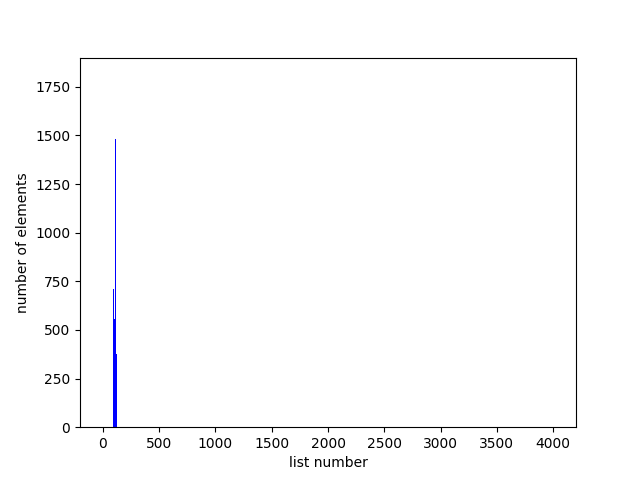
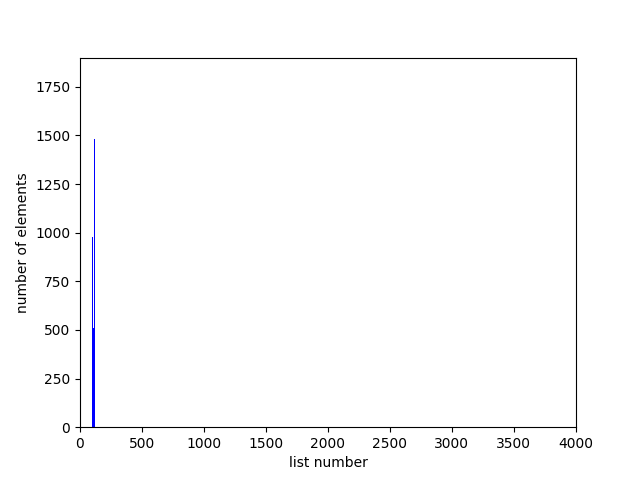
redone files

Changed region(s): [[0.125, 0.6562, 0.9375, 0.9375]]

diff --git a/hash/hash_table.cpp b/hash/hash_table.cpp
@@ -8,7 +8,7 @@
 List* LST_Create() {
     List* list = (List*)malloc(sizeof(List));
     if (list == NULL) {
-        return NULL; // Memory allocation failed
+        return NULL;
     }
 
     list->fixedElement = NULL;
@@ -37,7 +37,7 @@ void LST_Destroy(List* list) {
     Node* current = list->fixedElement;
     while (current != NULL) {
         Node* next = current->next;
-        free(current->value); // Assuming data is dynamically allocated
+        free(current->value);
         free(current);
         current = next;
     }
@@ -65,27 +65,22 @@ bool is_element_present(char* key, struct HashTable* ht) {
     Node* current = list->fixedElement;
     while (current != NULL) {
         if (strcmp(current->value, key) == 0) {
-            // Элемент уже присутствует в списке
-            return true;
+            return true;                            // Элемент уже присутствует в списке
         }
         current = current->next;
     }
-    // Элемент не найден
-    return false;
+    return false;                                   // Элемент не найден
 }
 
 void LST_add(struct List* list, value_type value) {
     assert(list);
-    // Створюємо новий вузол
     Node* new_node = (Node*)malloc(sizeof(Node));
     new_node->value = value;
-    new_node->next = NULL; // Новий вузол стає останнім, тому наступний буде NULL
+    new_node->next = NULL;
 
     if (list->fixedElement == NULL) {
-        // Якщо список порожній, новий елемент стає першим
         list->fixedElement = new_node;
     } else {
-        // Якщо список не порожній, додаємо новий елемент в кінець
         Node* current = list->fixedElement;
         while (current->next != NULL) {
             current = current->next;
@@ -96,14 +91,11 @@ void LST_add(struct List* list, value_type value) {
     list->length++;
 }
 
-// Добавление элемента в хэш-таблицу
 void add(char* key, struct HashTable* ht) {
-    // Проверка наличия элемента
-    if (is_element_present(key, ht)) {
+    if (is_element_present(key, ht)) {                      // Проверка наличия элемента
         return;
     }
 
-    // Вычисление хэша и добавление элемента в список
     key_type hash = ht->hash_function(key) % ht->length;
     LST_add(&ht->array[hash], key);
 }

diff --git a/hash/hash_func.cpp b/hash/hash_func.cpp
@@ -16,10 +16,26 @@ key_type hash_func2(const char* key) {
 key_type hash_func3(const char* key) {
     size_t len = strlen(key);
     size_t sum_ASCII_code = 0;
+
     for (size_t i = 0; i < len; i++) {
         sum_ASCII_code += (int)key[i];
     }
+
     return sum_ASCII_code;
+}
+
+key_type hash_func4_2(const char* key) {
+    size_t len = strlen(key);
+    if (len == 0) {
+        return 1;
+    }
+
+    size_t sum_ASCII_code = 0;
+    for (size_t i = 0; i < len; i++) {
+        sum_ASCII_code += (int)key[i];
+    }
+
+    return (int)(sum_ASCII_code / len);
 }
 
 key_type hash_func4(const char* key) {
@@ -92,11 +108,11 @@ static const uint32_t crc_lookup_table[256] =
 key_type hash_function7(const char* data)
 {
     int size = strlen(data);
-   uint32_t crc = 0xffffffff;
-   unsigned char* str = (unsigned char*)data;
+    uint32_t crc = 0xffffffff;
 
-	while (size-- !=0)
-    {
+    unsigned char* str = (unsigned char*)data;
+
+	while (size-- !=0) {
         crc = crc_lookup_table[((uint8_t) crc ^ *(str++))] ^ (crc >> 8);
     }
     return ~crc;

diff --git a/main.cpp b/main.cpp
@@ -66,13 +66,13 @@ int main()
                                     0};
     MainFuncReadFile(&source);
 
-    struct HashTable* ht = HT_Create(reinterpret_cast<key_type (*)(value_type)>(hash_func3));
+    struct HashTable* ht = HT_Create(reinterpret_cast<key_type (*)(value_type)>(hash_func4_2));
 
     for (size_t i = 0; i < source.words; i++) {
         add(source.textArray[i], ht);
     }
 
-    writeToFileResult("./result/output3(1).txt", ht);
+    writeToFileResult("./result/output4(2).txt", ht);
     dispersion(ht);
 
     int sum = 0;

diff --git a/hash/hash_table.h b/hash/hash_table.h
@@ -4,8 +4,9 @@
 #include <stdlib.h>
 #include "../list/list.h"
 
-const size_t HT_TABLE_SIZE  = 501;
-const int    START_CAPACITY = 100;
+const size_t HT_TABLE_SIZE        = 4001;
+const size_t HT_TABLE_SIZE_SMALL  = 503;
+const int    START_CAPACITY       = 100;
 typedef size_t key_type;
 typedef char* value_type;
 

diff --git a/hash/hash_func.h b/hash/hash_func.h
@@ -7,6 +7,7 @@
 key_type hash_func1(const char* key);
 key_type hash_func2(const char* key);
 key_type hash_func3(const char* key);
+key_type hash_func4_2(const char* key);
 key_type hash_func4(const char* key);
 key_type hash_function5(const char* key) ;
 key_type hash_function6(const char* key);

diff --git a/README.md b/README.md
@@ -7,6 +7,13 @@
     1. [Цель](#цель)
     2. [Реализованные хэш-функции](#реализованные-хэш-функции)
     3. [Эксперимент](#эксперимент)
+       1. [Хэш-функция, которая всегда возвращает 1](#1-хэш-функция-которая-всегда-возвращает-1)
+       2. [Хэш-функция, которая возвращает ASCII-код первого символа слова](#2-хэш-функция-которая-возвращает-ascii-код-первого-символа-слова)
+       3. [Хэш-функция, которая возвращает сумму ASCII-кодов элементов слова](#3-хэш-функция-которая-возвращает-сумму-ascii-кодов-элементов-слова)
+       4. [Хэш-функция, которая возвращает длину слова](#4-хэш-функция-которая-возвращает-длину-слова)
+       5. [Хеш-функция Ror](#5-хеш-функция-ror)
+       6. [Хеш-функция Rol](#6-хеш-функция-rol)
+       7. [Хэш-функция Crc32](#7-хэш-функция-crc32)
 2. [Часть вторая](#часть-вторая)
 3. [Примечание](#примечание)
 
@@ -29,9 +36,9 @@
 Программа сравнивает семь различных хэш-функций:
 
 1. Возвращает всегда 1;
-2. Возвращает сумму ASCII-кодов первых символов строки;
+2. Возвращает сумму ASCII-кодов первого символа строки;
 3. Возвращает сумму ASCII-кодов всех символов строки;
-4. Возвращает размер строки;
+4. Возвращает размер слова;
 5. Функция хеширования Rol;
 6. Функция хеширования Lol;
 7. Хэш-функция Crc32.
@@ -41,35 +48,172 @@
 
 Для каждой хэш-функции создается хеш-таблица методом цепочек с константным размером 4001. Затем каждое слово из произведения добавляется в хэш-таблицу. В случае коллизии элементы перечисляются в цепочке. Размер каждой цепочки записывается.
 
-1. Хэш-функция, которая всегда возвращает 1
+#### 1. Хэш-функция, которая всегда возвращает 1
+
+```
+key_type hash_func1(const char* key) {
+    return 1;
+}
+```
 
 <img src = "./pictures/Figure_1.png" width="500" height="250">
 
-2. Хэш-функция, которая возвращает ASCII-код первого символа слова
+Эта хэш-функция неэффективна, так как все элементы складываются в один список.
+
+#### 2. Хэш-функция, которая возвращает ASCII-код первого символа слова
+
+```
+key_type hash_func2(const char* key) {
+    return key[0];
+}
+```
 
 <img src = "./pictures/Figure_2.png" width="500" height="250">
 
-3. Хэш-функция, которая возвращает сумму ASCII-кодов элементов слова
+В приближенном формате:
+
+<img src = "./pictures/Figure_2small.png" width="500" height="250">
+
+Эта функция не подходит для эффективного использования хеш-таблицы, так как коллизии происходят слишком часто. Значения хеш-функции не распределены равномерно.
+
+#### 3. Хэш-функция, которая возвращает сумму ASCII-кодов элементов слова
+
+```
+key_type hash_func3(const char* key) {
+    size_t len = strlen(key);
+    size_t sum_ASCII_code = 0;
+
+    for (size_t i = 0; i < len; i++) {
+        sum_ASCII_code += (int)key[i];
+    }
+
+    return sum_ASCII_code;
+}
+```
 
 <img src = "./pictures/Figure_3.png" width="500" height="250">
 
+Хэш-функция, основанная на сумме ASCII-кодов элементов слова, проявляет распределение с множеством пиков. Это происходит потому, что каждая буква в слове имеет свой уникальный ASCII-код, и сумма этих кодов зависит от длины слова и порядка букв в нем.
+
+Результаты хэш-функции на размере хэш-таблицы 503
+
 <img src = "./pictures/Figure_3(1).png" width="500" height="250">
 
-4. Хэш-функция, которая возвращает размер строки
+Уменьшая размер хэш-таблицы до 503 получается наложение значений длины списков с 503 до ~1200 на значения от 0 до 502.
+
+#### 4. Хэш-функция, которая возвращает длину слова
+
+```
+key_type hash_func4(const char* key) {
+    return strlen(key);
+}
+```
 
 <img src = "./pictures/Figure_4.png" width="500" height="250">
 
-5. Хеш-функция Rol
+В приближенном формате:
+
+<img src = "./pictures/Figure_4small.png" width="500" height="250">
+
+Из данного анализа графика можно сделать вывод, что слова определенных длин встречаются чаще всего. Например, слова длиной 2-10 символов имеют более высокую частоту появления по сравнению со словами другой длины. Однако, с увеличением длины слова количество таких слов снижается, и слова длиной более 15 символов уже становятся редкостью.
+
+Такой подход делает хеш-таблицу менее эффективной, поскольку большинство слов будут хешироваться в ограниченный диапазон индексов таблицы.
+
+К дополнению рассмотрим хэш-функцию, которая возвращает сумму ASCII-кодов элементов слова деленное на длину слова:
+
+```
+key_type hash_func4_2(const char* key) {
+    size_t len = strlen(key);
+    if (len == 0) {
+        return 1;
+    }
+
+    size_t sum_ASCII_code = 0;
+    for (size_t i = 0; i < len; i++) {
+        sum_ASCII_code += (int)key[i];
+    }
+
+    return (int)(sum_ASCII_code / len);
+}
+```
+
+<img src = "./pictures/Figure_4(2).png" width="500" height="250">
+
+В приближенном формате:
+
+<img src = "./pictures/Figure_4(2)small.png" width="500" height="250">
+
+Можно заметить, что все значения хешей в диапазоне 90-120. Такое распределение значений хешей указывает на то, что большинство слов имеют близкие значения хешей, что может привести к увеличению количества коллизий.
+
+#### 5. Хеш-функция Ror
+
+Хэш-функция ROR осуществляет циклический сдвиг битов числа вправо. Биты сдвигаются вправо, и биты, выходящие за пределы справа, перемещаются на место самых младших битов числа.
+
+```
+key_type hash_function5(const char* key) {
+    size_t ans = 0;
+    int len = strlen(key);
+
+    for (size_t i = 0; i < len; i++) {
+        ans = ror(ans) ^ (key[i]);
+    }
+
+    return ans;
+}
+```
 
 <img src = "./pictures/Figure_5.png" width="500" height="250">
 
-6. Хеш-функция Lol
+Эта хэш-функция обеспечивает более равномерное распределение данных в диапазоне от 0 до 4001 с максимальными пиками, достигающими 27. Это означает, что значения хэш-кодов, возвращаемые этой функцией, имеют более однородное распределение по всему диапазону значений от 0 до 4001.
+
+#### 6. Хеш-функция Rol
+
+Хэш-функция ROL представляет собой алгоритм хэширования, который осуществляет циклический сдвиг битов числа влево.
+
+```
+key_type hash_function6(const char* key) {
+    size_t ans = 0;
+    int len = strlen(key);
+
+    for (size_t i = 0; i < len; i++) {
+        ans = rol(ans) ^ (key[i]);
+    }
+
+    return ans;
+}
+```
 
 <img src = "./pictures/Figure_6.png" width="500" height="250">
 
-7. Хэш-функция Crc32
+Данная хэш-функция также обеспечивает равномерное распределение данных в диапазоне от 0 до 4001, при этом максимальные пики достигают 16. Это означает, что значения хэш-кодов, возвращаемые этой функцией, распределены более равномерно по всему диапазону значений от 0 до 4001 по сравнению с хэш-функцией ROR.
+
+#### 7. Хэш-функция Crc32
+
+Хэш-функция CRC32 - это алгоритм хэширования, который широко используется в различных программных приложениях для вычисления контрольной суммы для данных.
+
+Процесс вычисления хэша CRC32 начинается с инициализации начального значения, которое обычно равно 0xFFFFFFFF. Затем каждый байт входных данных последовательно обрабатывается алгоритмом. Для каждого байта применяется XOR с текущим значением CRC, а затем происходит циклический сдвиг бит влево на один бит. Если старший бит CRC становится равным 1 после сдвига, происходит операция XOR с полиномом 0x04C11DB7. Этот процесс повторяется для всех байтов входных данных.
+
+В конце обработки всех байтов CRC инвертируется, и это конечное значение является хешем для входных данных.
+
+Эта хэш-функция хорошо распределяет данные по разным спискам (максимальная длина списка 10).
+
+```
+key_type hash_function7(const char* data) {
+    int size = strlen(data);
+    uint32_t crc = 0xffffffff;
+
+    unsigned char* str = (unsigned char*)data;
+
+	while (size-- !=0) {
+        crc = crc_lookup_table[((uint8_t) crc ^ *(str++))] ^ (crc >> 8);
+    }
+    return ~crc;
+}
+```
 
 <img src = "./pictures/Figure_7.png" width="500" height="250">
+
+#### Анализ дисперсий хэш-функций
 
 |         Хэш-функция           |  Дисперсия |
 |:-----------------------------:|:----------:|
